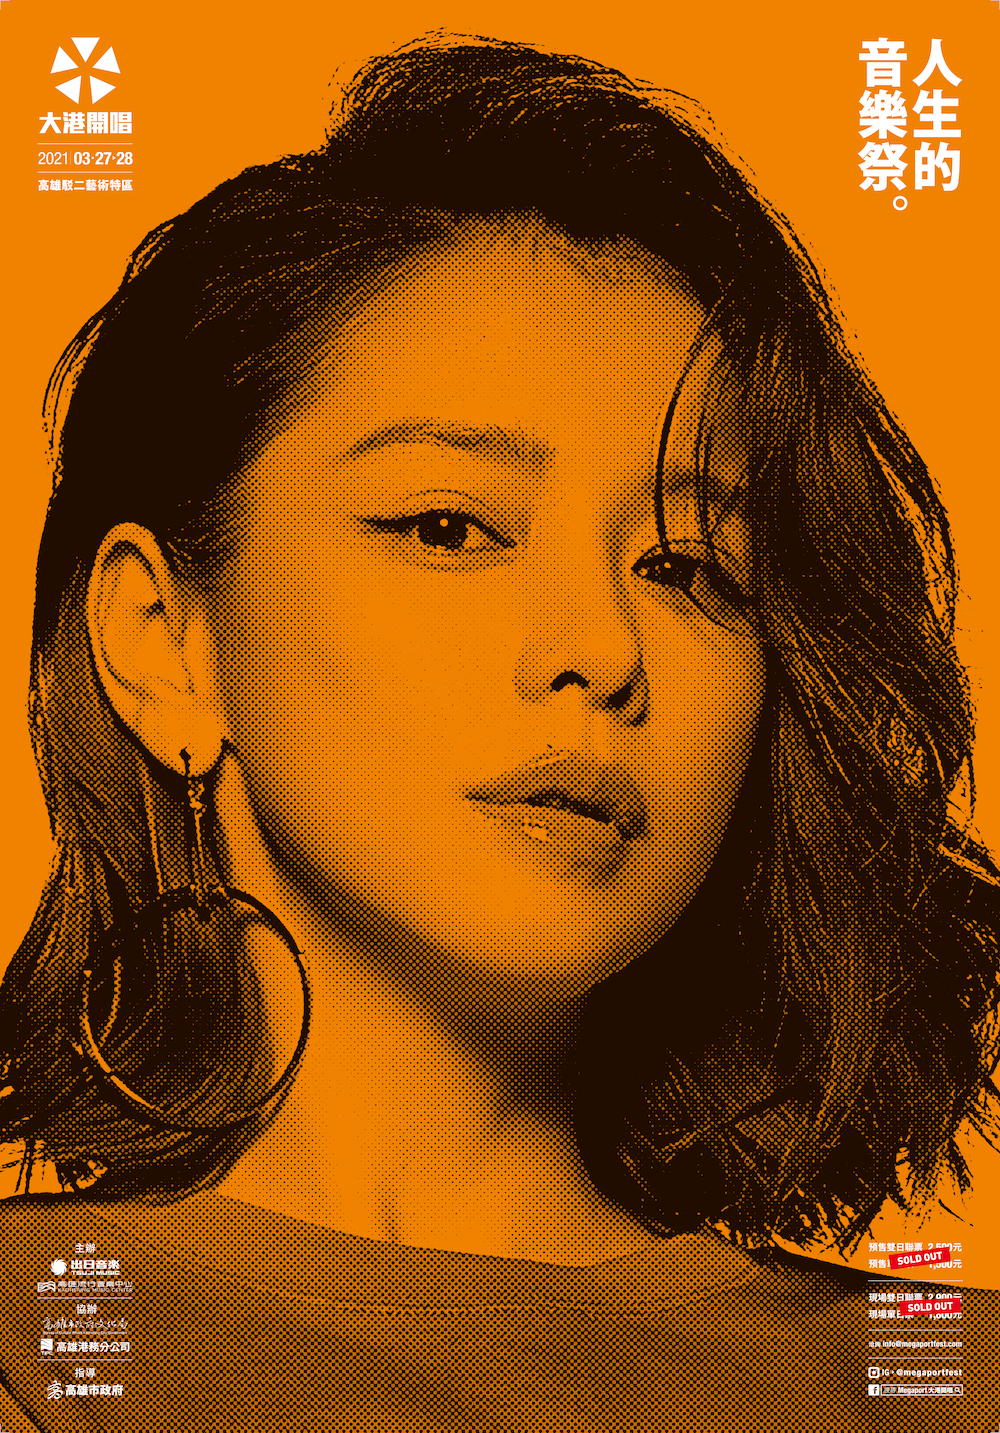
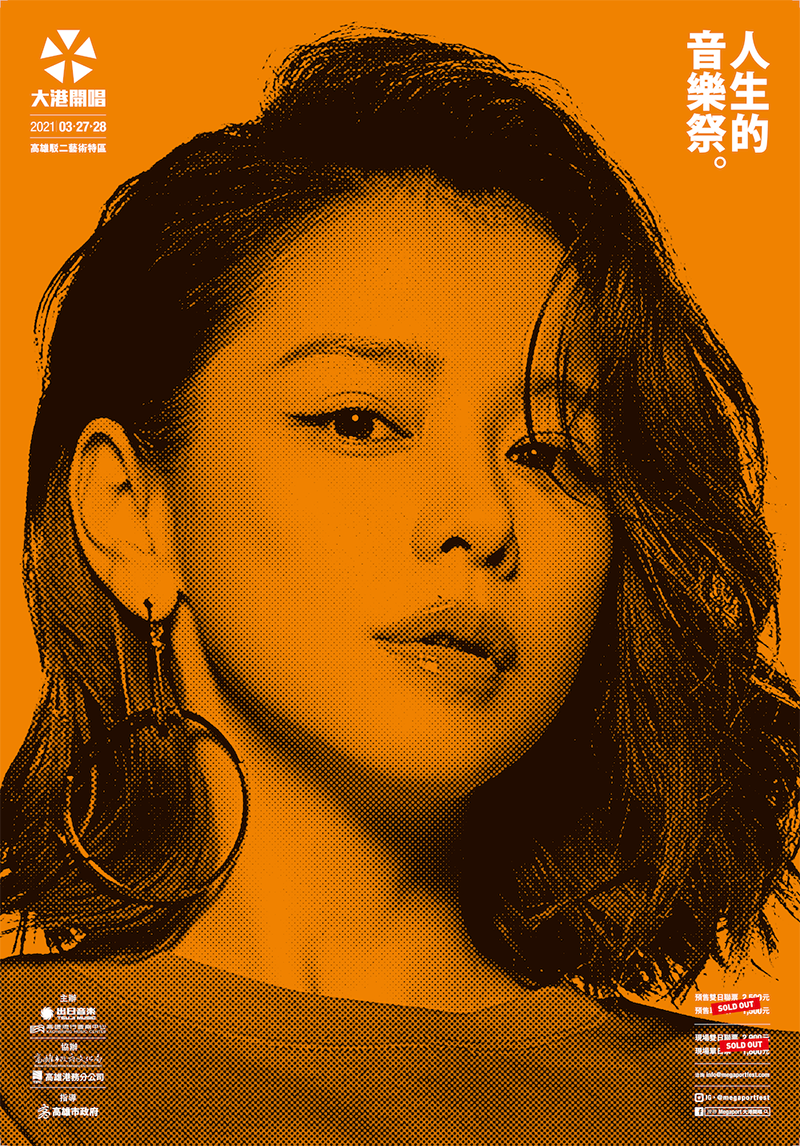
update posters size

diff --git a/src/view/layout/Header.tsx b/src/view/layout/Header.tsx
@@ -36,7 +36,7 @@ export default function Header() {
 	return (
 		<StyledHeader>
 			<a className={'logo'} href="/">
-				<Box height="100%" borderRadius={24} overflow="hidden">
+				<Box height="100%" borderRadius={24} overflow="hidden" sx={{ aspectRatio: '1' }}>
 					<Image
 						src={IMAGES.LOGO_SVG}
 						alt="FesTime"

diff --git a/src/constants/images.ts b/src/constants/images.ts
@@ -8,7 +8,7 @@ export const IMAGES = {
 	posters: {
 		2021: '/images/posters/poster_2021.png',
 		2022: '/images/posters/poster_2022.png',
-		2024: '/images/posters/poster_2024.jpeg',
+		2024: '/images/posters/poster_2024.png',
 	},
 	maps: {
 		2021: '/images/maps/map2021.jpg',
